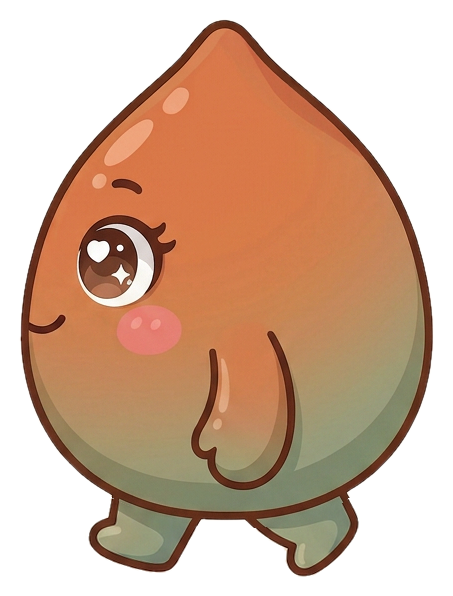
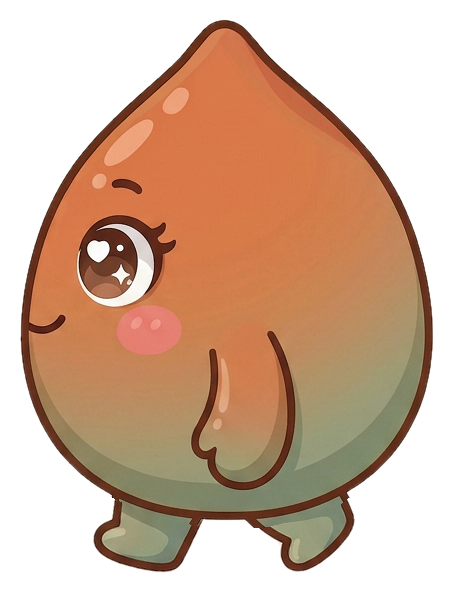
Start Spark walking immediately and make steps more visible

Changed region(s): [[0.1854, 0.8154, 0.4636, 0.9664], [0.5563, 0.8456, 0.8035, 0.9664], [0.6799, 0.8456, 0.7108, 0.8758]]

diff --git a/test/spark_pet_test.dart b/test/spark_pet_test.dart
@@ -79,32 +79,27 @@ void main() {
     await tester.pumpWidget(UncontrolledProviderScope(container: c,
       child: SparkThemeScope(palette: SparkPalette.light,
         child: const MaterialApp(home: Scaffold(body: SparkPet())))));
-    await tester.pump(const Duration(milliseconds: 700));
-    bool frame(String name) => tester.widgetList<Image>(find.byType(Image)).any((image) =>
-      image.image is AssetImage && (image.image as AssetImage).assetName.endsWith('/$name.png'));
-    expect(frame('wave_mid') || frame('wave_alt'), isTrue);
-    await tester.pump(const Duration(seconds: 5));
-    await tester.pump(const Duration(milliseconds: 500));
-    expect(tester.widgetList<Image>(find.byType(Image)).any((image) => image.image is AssetImage && (image.image as AssetImage).assetName.contains('/walk_cycle_')), isTrue);
-    final seenFrames = <String>{};
-    for (var i = 0; i < 18; i++) {
-      await tester.pump(const Duration(milliseconds: 80));
+    await tester.pump(const Duration(milliseconds: 200));
+    String? currentFrame() {
       for (final image in tester.widgetList<Image>(find.byType(Image))) {
         if (image.image is AssetImage) {
-          final path = (image.image as AssetImage).assetName;
-          if (path.contains('/walk_cycle_')) seenFrames.add(path);
+          final name = (image.image as AssetImage).assetName;
+          if (name.contains('/frames/')) return name;
         }
       }
+      return null;
     }
-    expect(seenFrames.length, 16);
-    var sawBack = false, sawJump = false, sawHeart = false;
-    for (var i = 0; i < 110; i++) {
-      await tester.pump(const Duration(milliseconds: 200));
-      sawJump = sawJump || frame('jump');
-      sawBack = sawBack || frame('back');
-      sawHeart = sawHeart || frame('heart');
+    final seen = <String>{};
+    for (var i = 0; i < 360; i++) {
+      await tester.pump(const Duration(milliseconds: 80));
+      final frame = currentFrame();
+      if (frame != null) seen.add(frame);
     }
-    expect(sawJump && sawBack && sawHeart, isTrue);
+    expect(seen.where((s) => s.contains('/walk_cycle_')).length, 16);
+    expect(seen.any((s) => s.endsWith('/wave_mid.png') || s.endsWith('/wave_alt.png')), isTrue);
+    expect(seen.any((s) => s.endsWith('/jump.png')), isTrue);
+    expect(seen.any((s) => s.endsWith('/back.png')), isTrue);
+    expect(seen.any((s) => s.endsWith('/heart.png')), isTrue);
   });
 
 }

diff --git a/lib/design_system/widgets/spark_pet.dart b/lib/design_system/widgets/spark_pet.dart
@@ -77,7 +77,9 @@ class _SparkPetState extends ConsumerState<SparkPet> with TickerProviderStateMix
         _action = _PetAction.idle;
       } else {
         _life.repeat();
-        _scheduleIdle();
+        WidgetsBinding.instance.addPostFrameCallback((_) {
+          if (mounted && !_reducedMotion && _action == _PetAction.idle) _beginWalking();
+        });
       }
     }
   }
@@ -93,7 +95,12 @@ class _SparkPetState extends ConsumerState<SparkPet> with TickerProviderStateMix
       0 => _PetAction.turnAndHeart, 1 => _PetAction.waving, _ => _PetAction.idle,
     });
     _idleMotion.forward(from: 0);
-    _idleTimer = Timer(const Duration(milliseconds: 4800), _beginWalking);
+    final pause = switch (_action) {
+      _PetAction.idle => const Duration(milliseconds: 1600),
+      _PetAction.waving => const Duration(milliseconds: 3200),
+      _ => const Duration(milliseconds: 4800),
+    };
+    _idleTimer = Timer(pause, _beginWalking);
   }
 
   void _beginWalking() {

diff --git a/tool/build_spark_walk.py b/tool/build_spark_walk.py
@@ -24,7 +24,11 @@ right = layer((y >= curve - 12) & (x > 245) & (x < 361) & (y > 495))
 for i in range(16):
     step = math.sin(2 * math.pi * i / 16)
     canvas = Image.new('RGBA', source.size)
-    canvas.alpha_composite(right.rotate(10 * step, resample=Image.Resampling.BICUBIC, center=(300, 500)))
-    canvas.alpha_composite(left.rotate(-10 * step, resample=Image.Resampling.BICUBIC, center=(150, 500)))
+    # Broader alternating stride and a brief lift make footfalls visible at
+    # phone size; both feet remain behind the unchanged body.
+    r = right.rotate(17 * step, resample=Image.Resampling.BICUBIC, center=(300, 500))
+    l = left.rotate(-17 * step, resample=Image.Resampling.BICUBIC, center=(150, 500))
+    canvas.alpha_composite(r, (round(9 * step), -round(12 * max(0, -step))))
+    canvas.alpha_composite(l, (-round(9 * step), -round(12 * max(0, step))))
     canvas.alpha_composite(body)
     canvas.save(root / 'frames' / f'walk_cycle_{i:02}.png', optimize=True)

diff --git a/docs/progress.md b/docs/progress.md
@@ -446,3 +446,6 @@ name, email, password — plus the session (`none / guest / account`).
 ### Spark walk-cycle experiment
 - Added 16 registered walk-cycle PNG frames, preloaded and played at 12.5 fps in both directions, instead of alternating the previous three independently generated poses. The cycle is rendered offline from one side image and separated leg layers; it is an interpolated rig, not 16 hand-drawn poses or a finalized natural walk. The user should review it before the other actions are expanded.
 - A browser smoke test found no page errors, and tests cover the sequence and reduced-motion behavior. Gentle placement vs falling, random comfort requests and naming remain future work; the existing behavior has not yet been changed for these.
+
+### Walk visibility follow-up
+- User reported the first walk was not visibly moving. Shortened the initial wait by starting the walk immediately, shortened the ordinary pauses, and increased the stride. Browser screenshots confirm horizontal displacement and the walk assets load, but the gait is still generated from one rig rather than drawn as 16 distinct poses; it is not yet approved as a natural walk. Reduced-motion system settings intentionally disable automatic movement.
